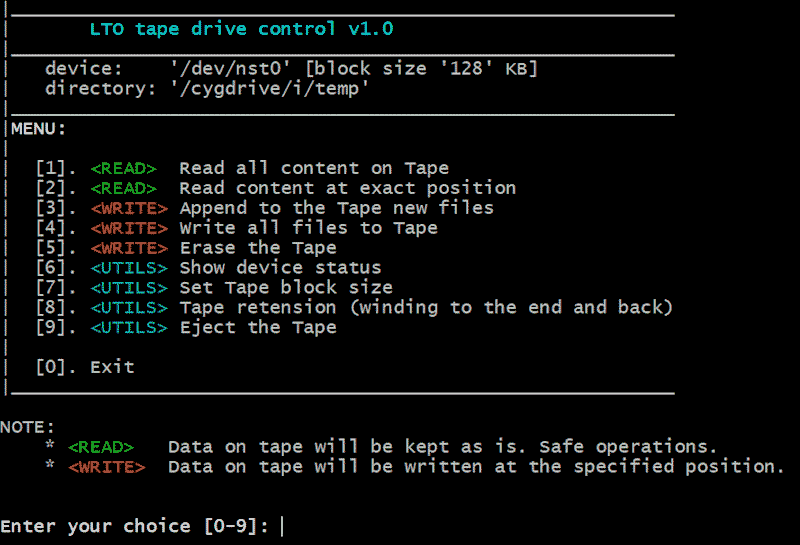
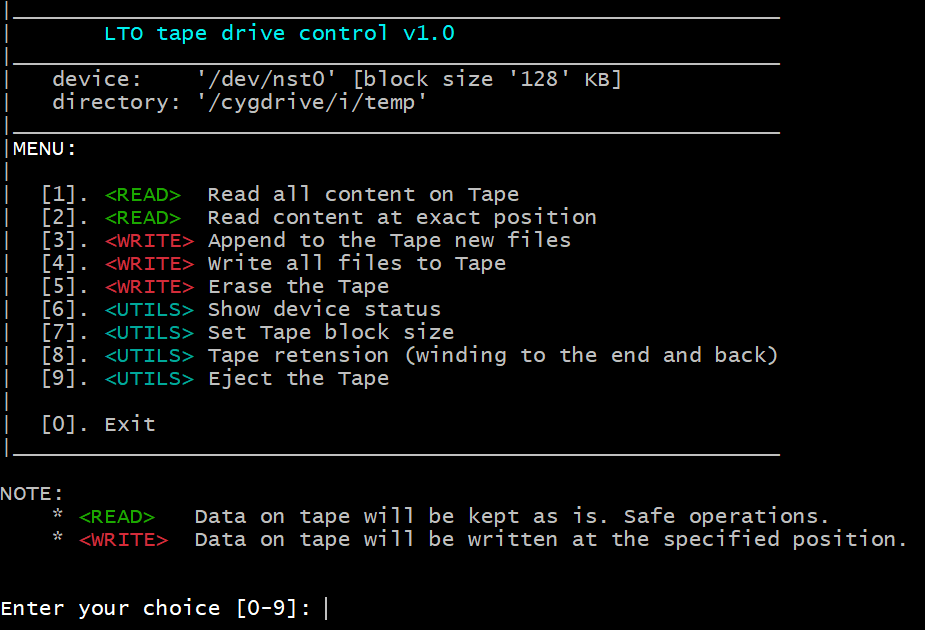
Main menu image got updated and alligned to the center of screen

diff --git a/README.md b/README.md
@@ -4,7 +4,9 @@
 
 > **Note:** This project does not aim to compete with other established backup solutions. It is not intended to replace them. The purpose of this utility is to address common data archival tasks for SOHO (Small Office/Home Office) users. The utility has only been tested with the HPE Ultrium 1760 SAS LTO-4 tape drive, which is the device I use and have access to.
 
-![tapedrive-control main](docs/tapedrive-control_main-menu.png)
+<p align="center">
+  <img src="docs/tapedrive-control_main-menu.png" alt="tapedrive-control main" />
+</p>
 
 ## 1 Getting ready
 
